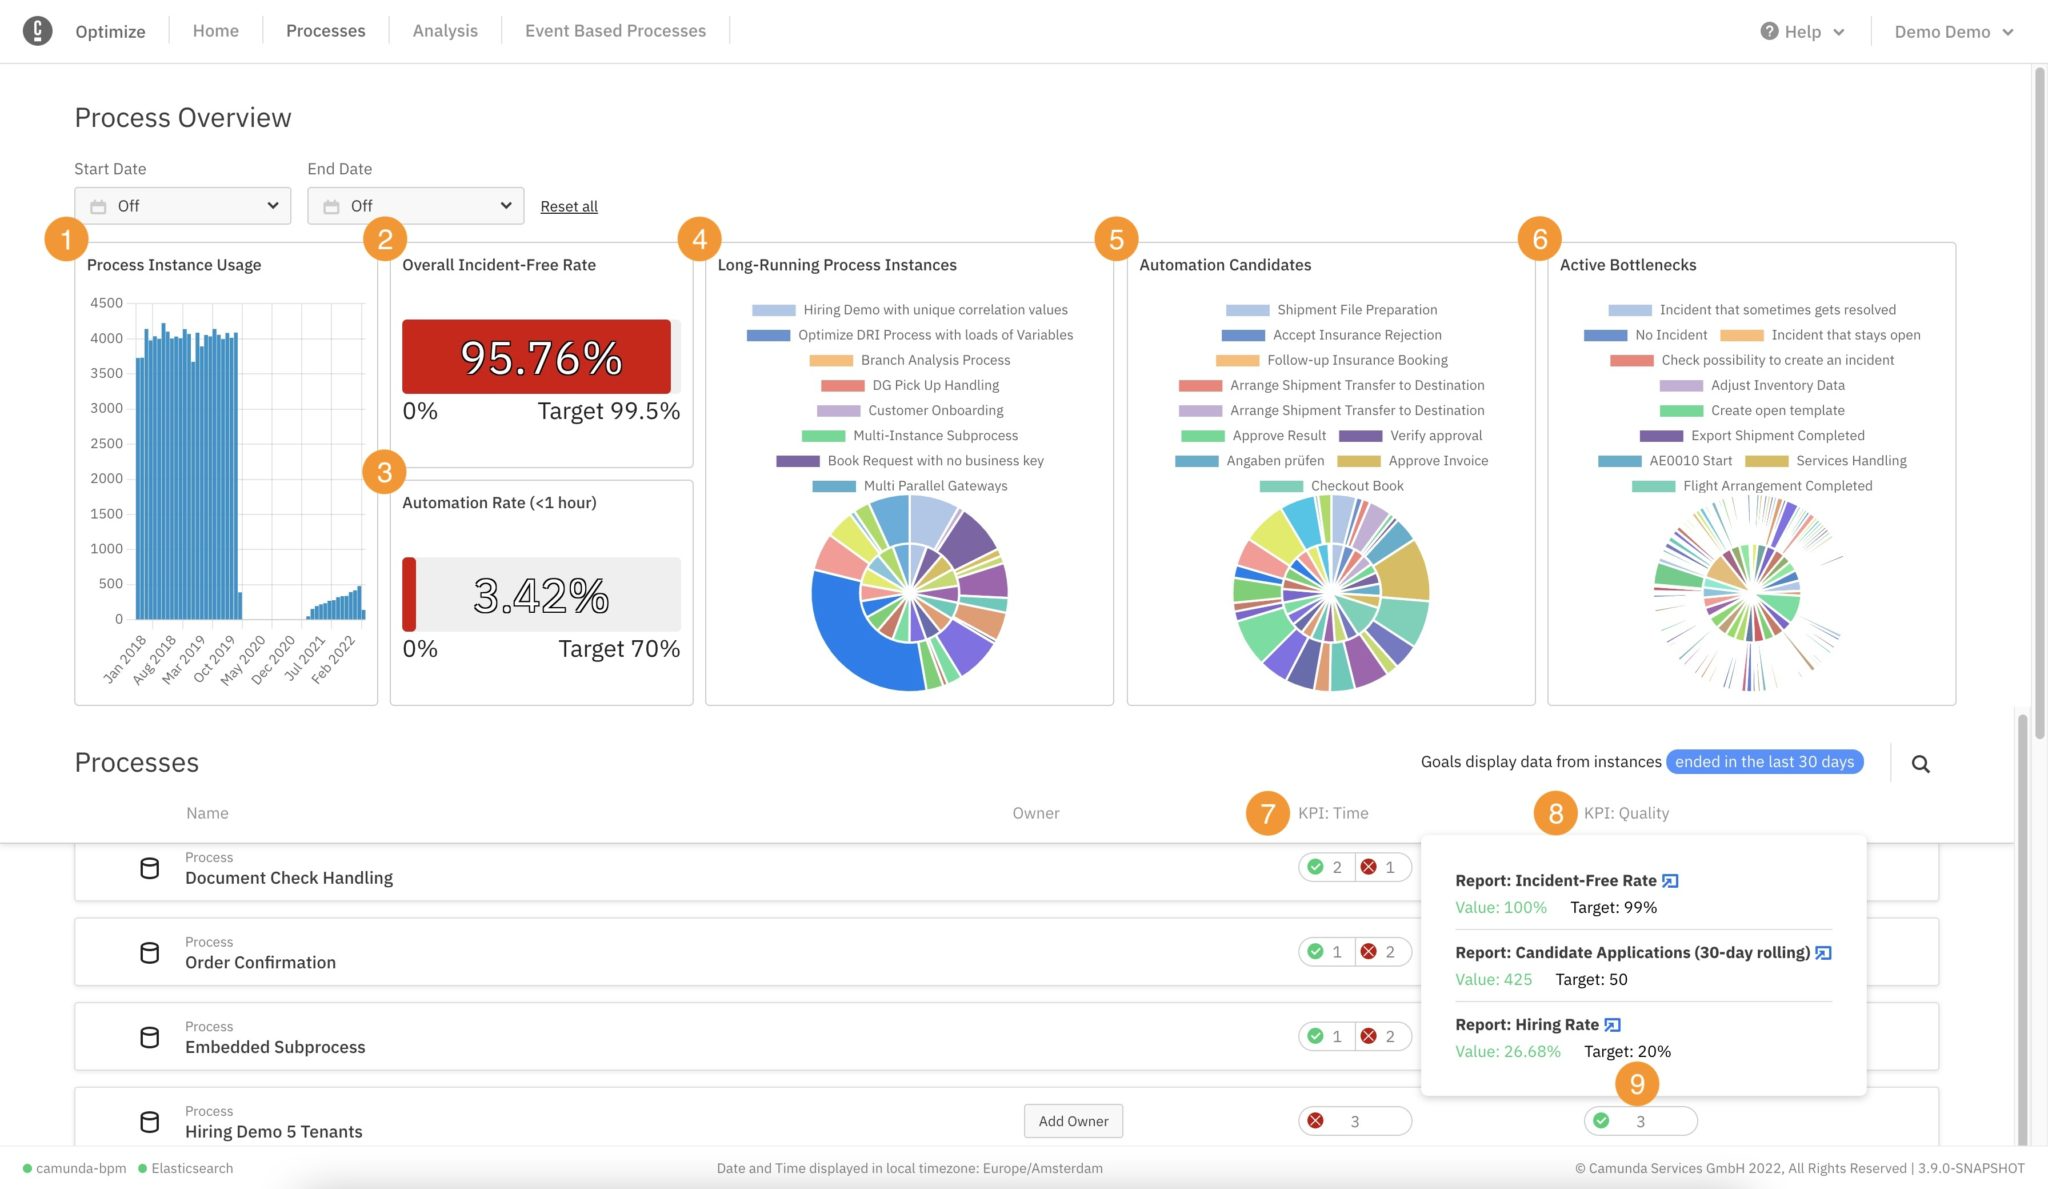
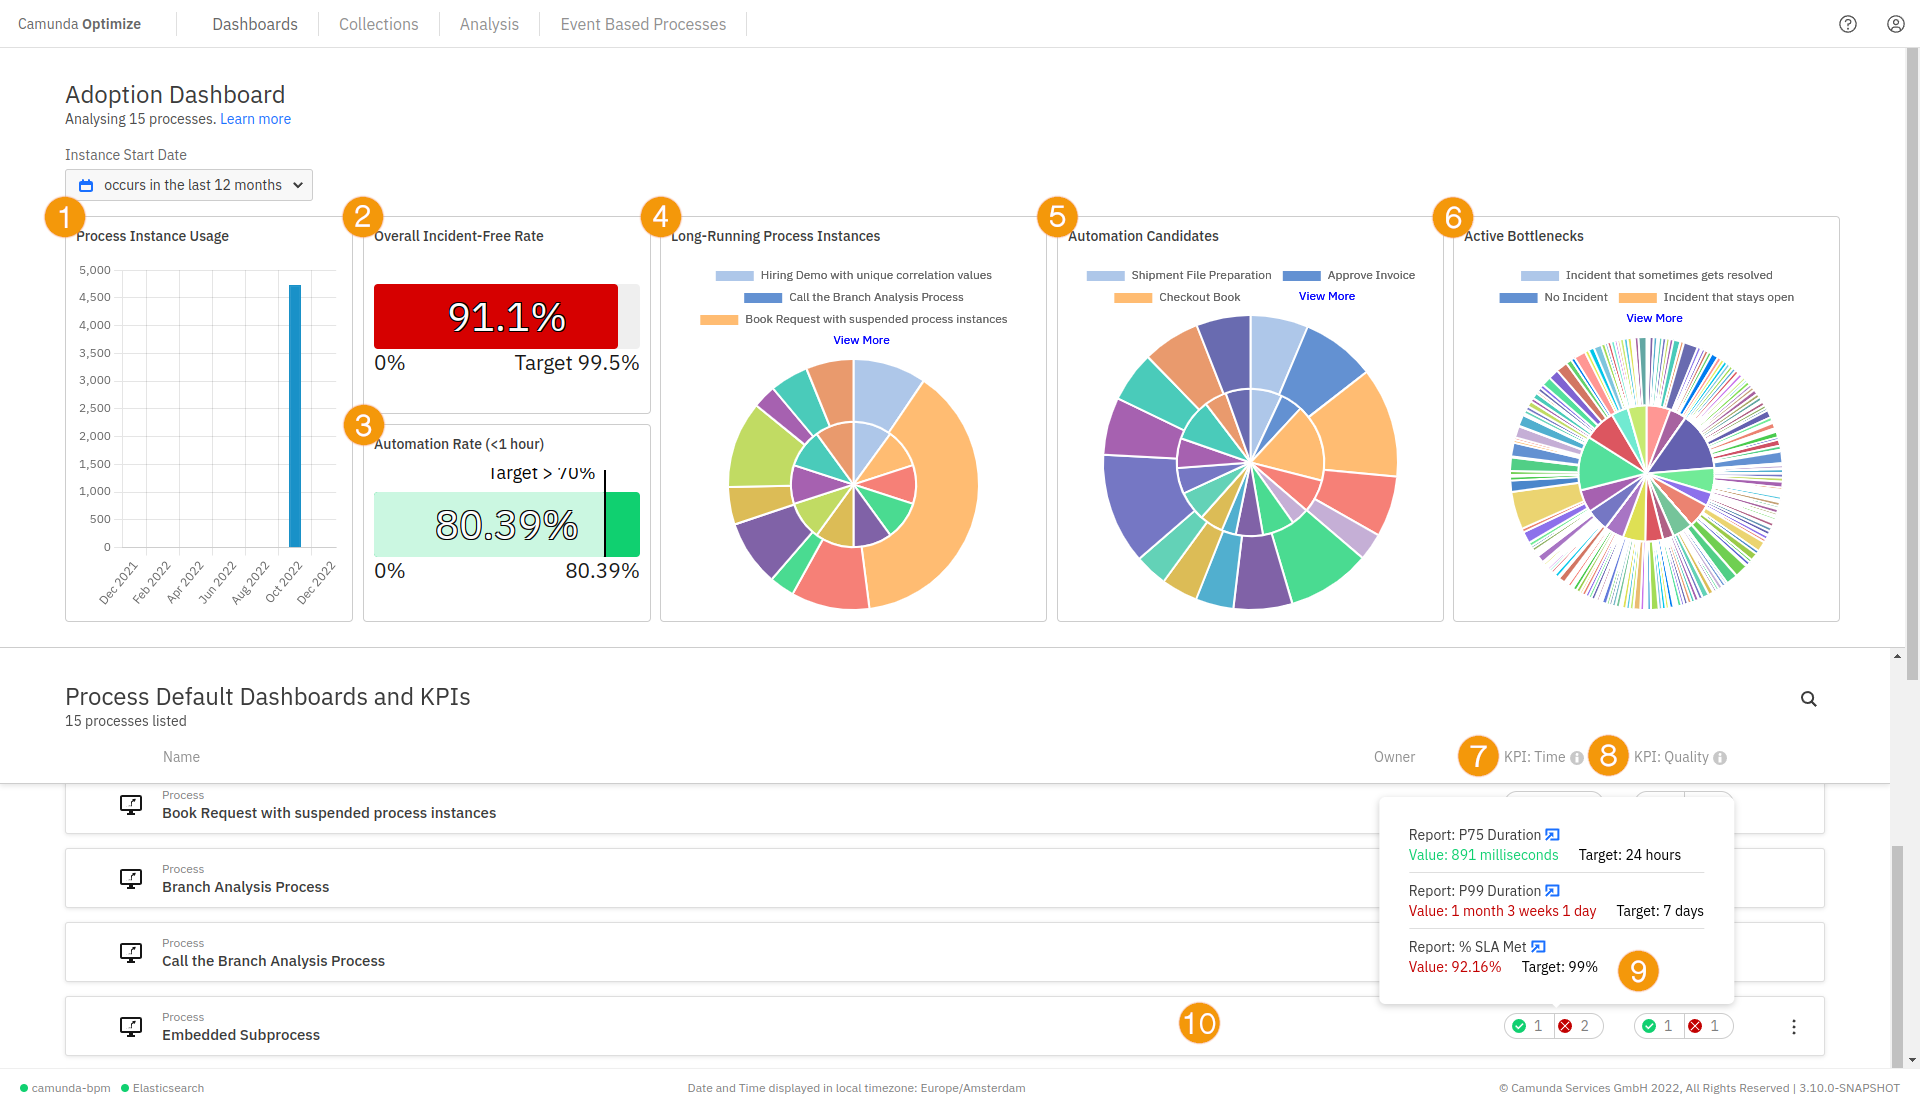
docs(processes): Update optimize processes page (#1582)
* docs(processes): Update optimize processes page

related to OPT-6668

diff --git a/sidebars.js b/sidebars.js
@@ -307,7 +307,10 @@ module.exports = {
               "Combined process reports",
               "components/userguide/combined-process-reports/"
             ),
-            optimizeLink("Processes", "components/userguide/processes/"),
+            optimizeLink(
+              "Processes",
+              "components/userguide/process-dashboards/"
+            ),
             {
               "Process analysis": [
                 optimizeLink(

diff --git a/optimize_sidebars.js b/optimize_sidebars.js
@@ -771,7 +771,7 @@ module.exports = {
             },
             "components/userguide/creating-reports",
             "components/userguide/combined-process-reports",
-            "components/userguide/processes",
+            "components/userguide/process-dashboards",
 
             {
               "Process analysis": [

diff --git a/optimize/components/userguide/process-dashboards.md b/optimize/components/userguide/process-dashboards.md
@@ -1,13 +1,13 @@
 ---
-id: processes
-title: Processes
-description: "The processes section gives you an overview of all the processes and their status on a single page."
+id: process-dashboards
+title: Process dashboards
+description: "The process dashboards section gives you an overview of all the processes and their status on a single page."
 ---
 
 ## Overview
 
-The processes section gives you an overview of all the processes and their status on a single page.
-This section also allows you to set a process owner and take responsibility of a process, viewing time, and quality KPIs to track process performance. Additionally, a **Management Dashboard** can be found at the top of the page, which integrates data from all processes in one view. The optional date filter is applied to all the reports shown in this view.
+The **Process Default Dashboards and KPIs** section gives you an overview of all the processes and their status on a single page.
+This section also allows you to set a process owner and take responsibility of a process, viewing time, and quality KPIs to track process performance. Additionally, a **Adoption Dashboard** can be found at the top of the page, which integrates data from all processes in one view. The optional date filter is applied to all the reports shown in this view.
 ![Processes page](./img/processOverview.png)
 
 Note the available views below:
@@ -30,6 +30,8 @@ Note the available views below:
 
 9. KPI Results: You can see the KPI’s current and target values, plus a link to the report itself.
 
+10. Clicking on each process on the list opens a default dashboard dedicated to this process.
+
 :::tip
 For the pie chart reports in 4, 5, and 6, both time and count are displayed in the chart according to the following format:
 
@@ -39,12 +41,12 @@ For the pie chart reports in 4, 5, and 6, both time and count are displayed in t
 ## Set time and quality KPIs
 
 KPIs are single number reports, which have a target set. A report can be configured as a KPI report through the report configuration panel and the classification to a time or quality KPI happens internally in Optimize based on the measure selected.
-Once a report is configured as KPI, its status can be seen on the **Processes Overview** page. Hovering over its status allows previewing more specific information in regard to the KPIs, such as the target set, the actual current value of the single number report and a link to it. If a user accesses a report via this link and does not have authorization to view it, they will not be able to see any data in the report view.
+Once a report is configured as KPI, its status can be seen on the **Adoption Dashboard**. Hovering over its status allows previewing more specific information in regard to the KPIs, such as the target set, the actual current value of the single number report and a link to it. If a user accesses a report via this link and does not have authorization to view it, they will not be able to see any data in the report view.
 ![Set time and quality KPIs](./img/kpiConfiguration.png)
 
 ## Configuring process owner and digests
 
-The process can be configured by clicking the 'Configure' button when hovering over the process. From this modal, you can change the owner of the process, as well as enable/disable the process digest. The process digest is a scheduled email report summarizing the current and previous state of the KPI reports for that process. It will be emailed to the owner of that process at [globally configurable regular intervals](/self-managed/optimize-deployment/configuration/system-configuration.md/#digest). Note that process digests are an alpha feature.
+The process can be configured by clicking the **Configure** option selected from the three dots menu displayed on the right side when hovering over the process. From this modal, you can change the owner of the process, as well as enable/disable the process digest. The process digest is a scheduled email report summarizing the current and previous state of the KPI reports for that process. It will be emailed to the owner of that process at [globally configurable regular intervals](/self-managed/optimize-deployment/configuration/system-configuration.md/#digest). Note that process digests are an alpha feature.
 ![Configure Process](./img/configureProcess.png)
 
 ## KPI import scheduler
